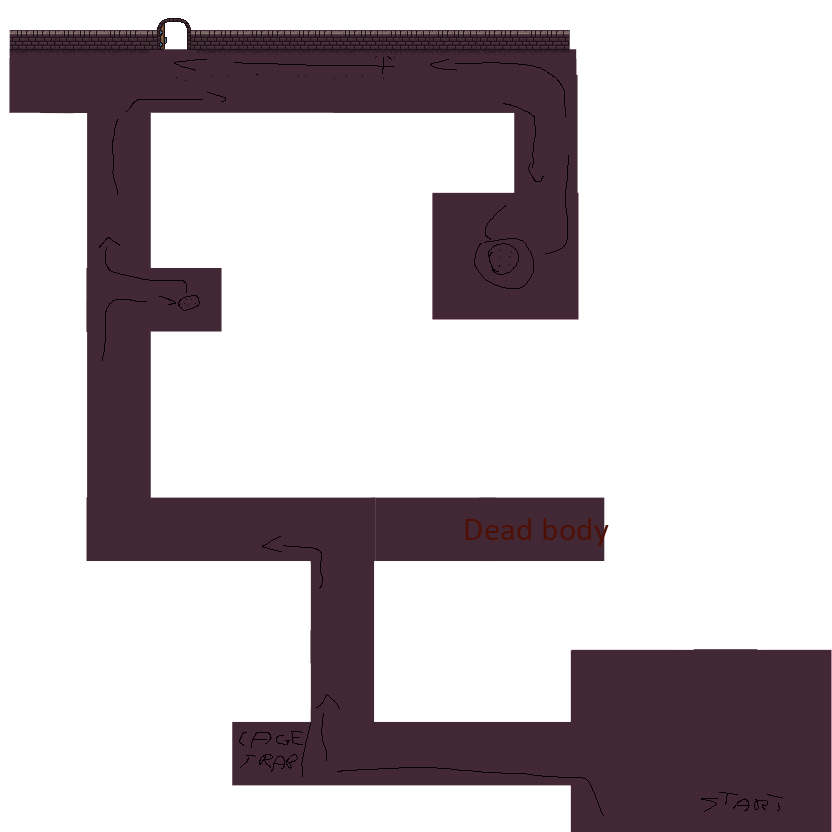
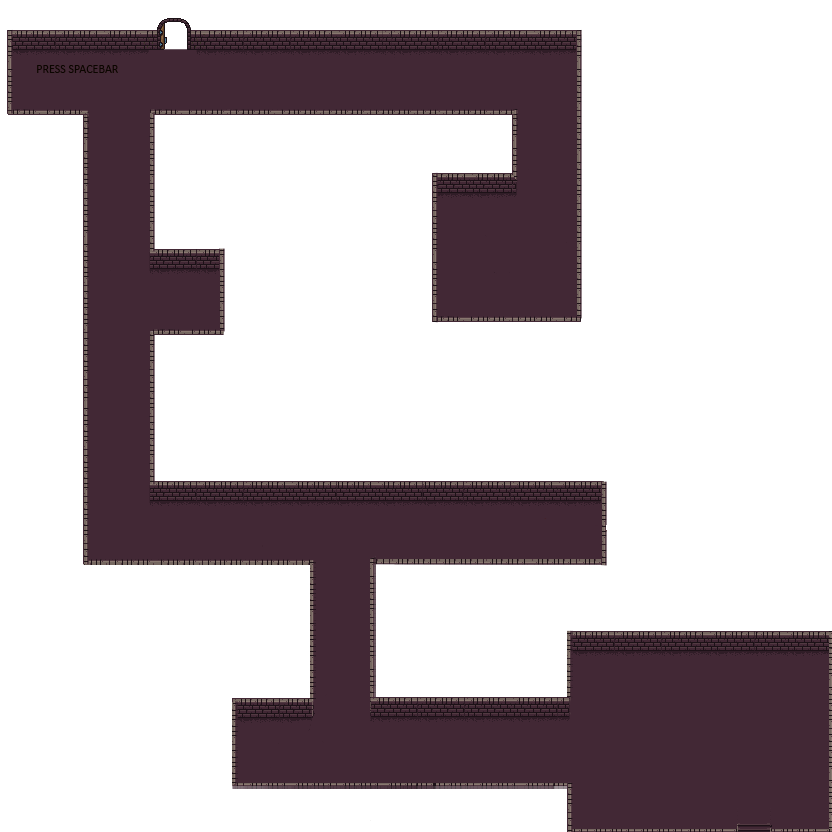
update map texture

diff --git a/level1/script1.js b/level1/script1.js
@@ -26,20 +26,11 @@ document.addEventListener('DOMContentLoaded', () => {
   // console.log(event);
   // });
 
-  // document.addEventListener("keydown", (event) => {
-  //   if (event.keyCode === 32) {
-  //     lever.setAttribute('pull', 'true')
-  //     setTimeout(() => {
-  //       lever.setAttribute('pull', 'false')
-  //       door.style.visibility == 'hidden' ? door.style.visibility = 'unset' : door.style.visibility = 'hidden';
-  //     }, 800)
-  //   }
-  // })
 
 
   //start in the middle of the map
-  let x = 60;
-  let y = 65;
+  let x = 740;
+  let y = 800;
   let held_directions = []; //State of which arrow keys we are holding down
   let speed = 1; //How fast the character moves in pixels per frame
 

diff --git a/level1/level_1.html b/level1/level_1.html
@@ -53,7 +53,7 @@
 
 
   <div class="now">
-    <p>press Spacebar</p>
+
     <p><span class="position">0, 0</span></p>
     <p><span class="condition">0</span></p>
 
